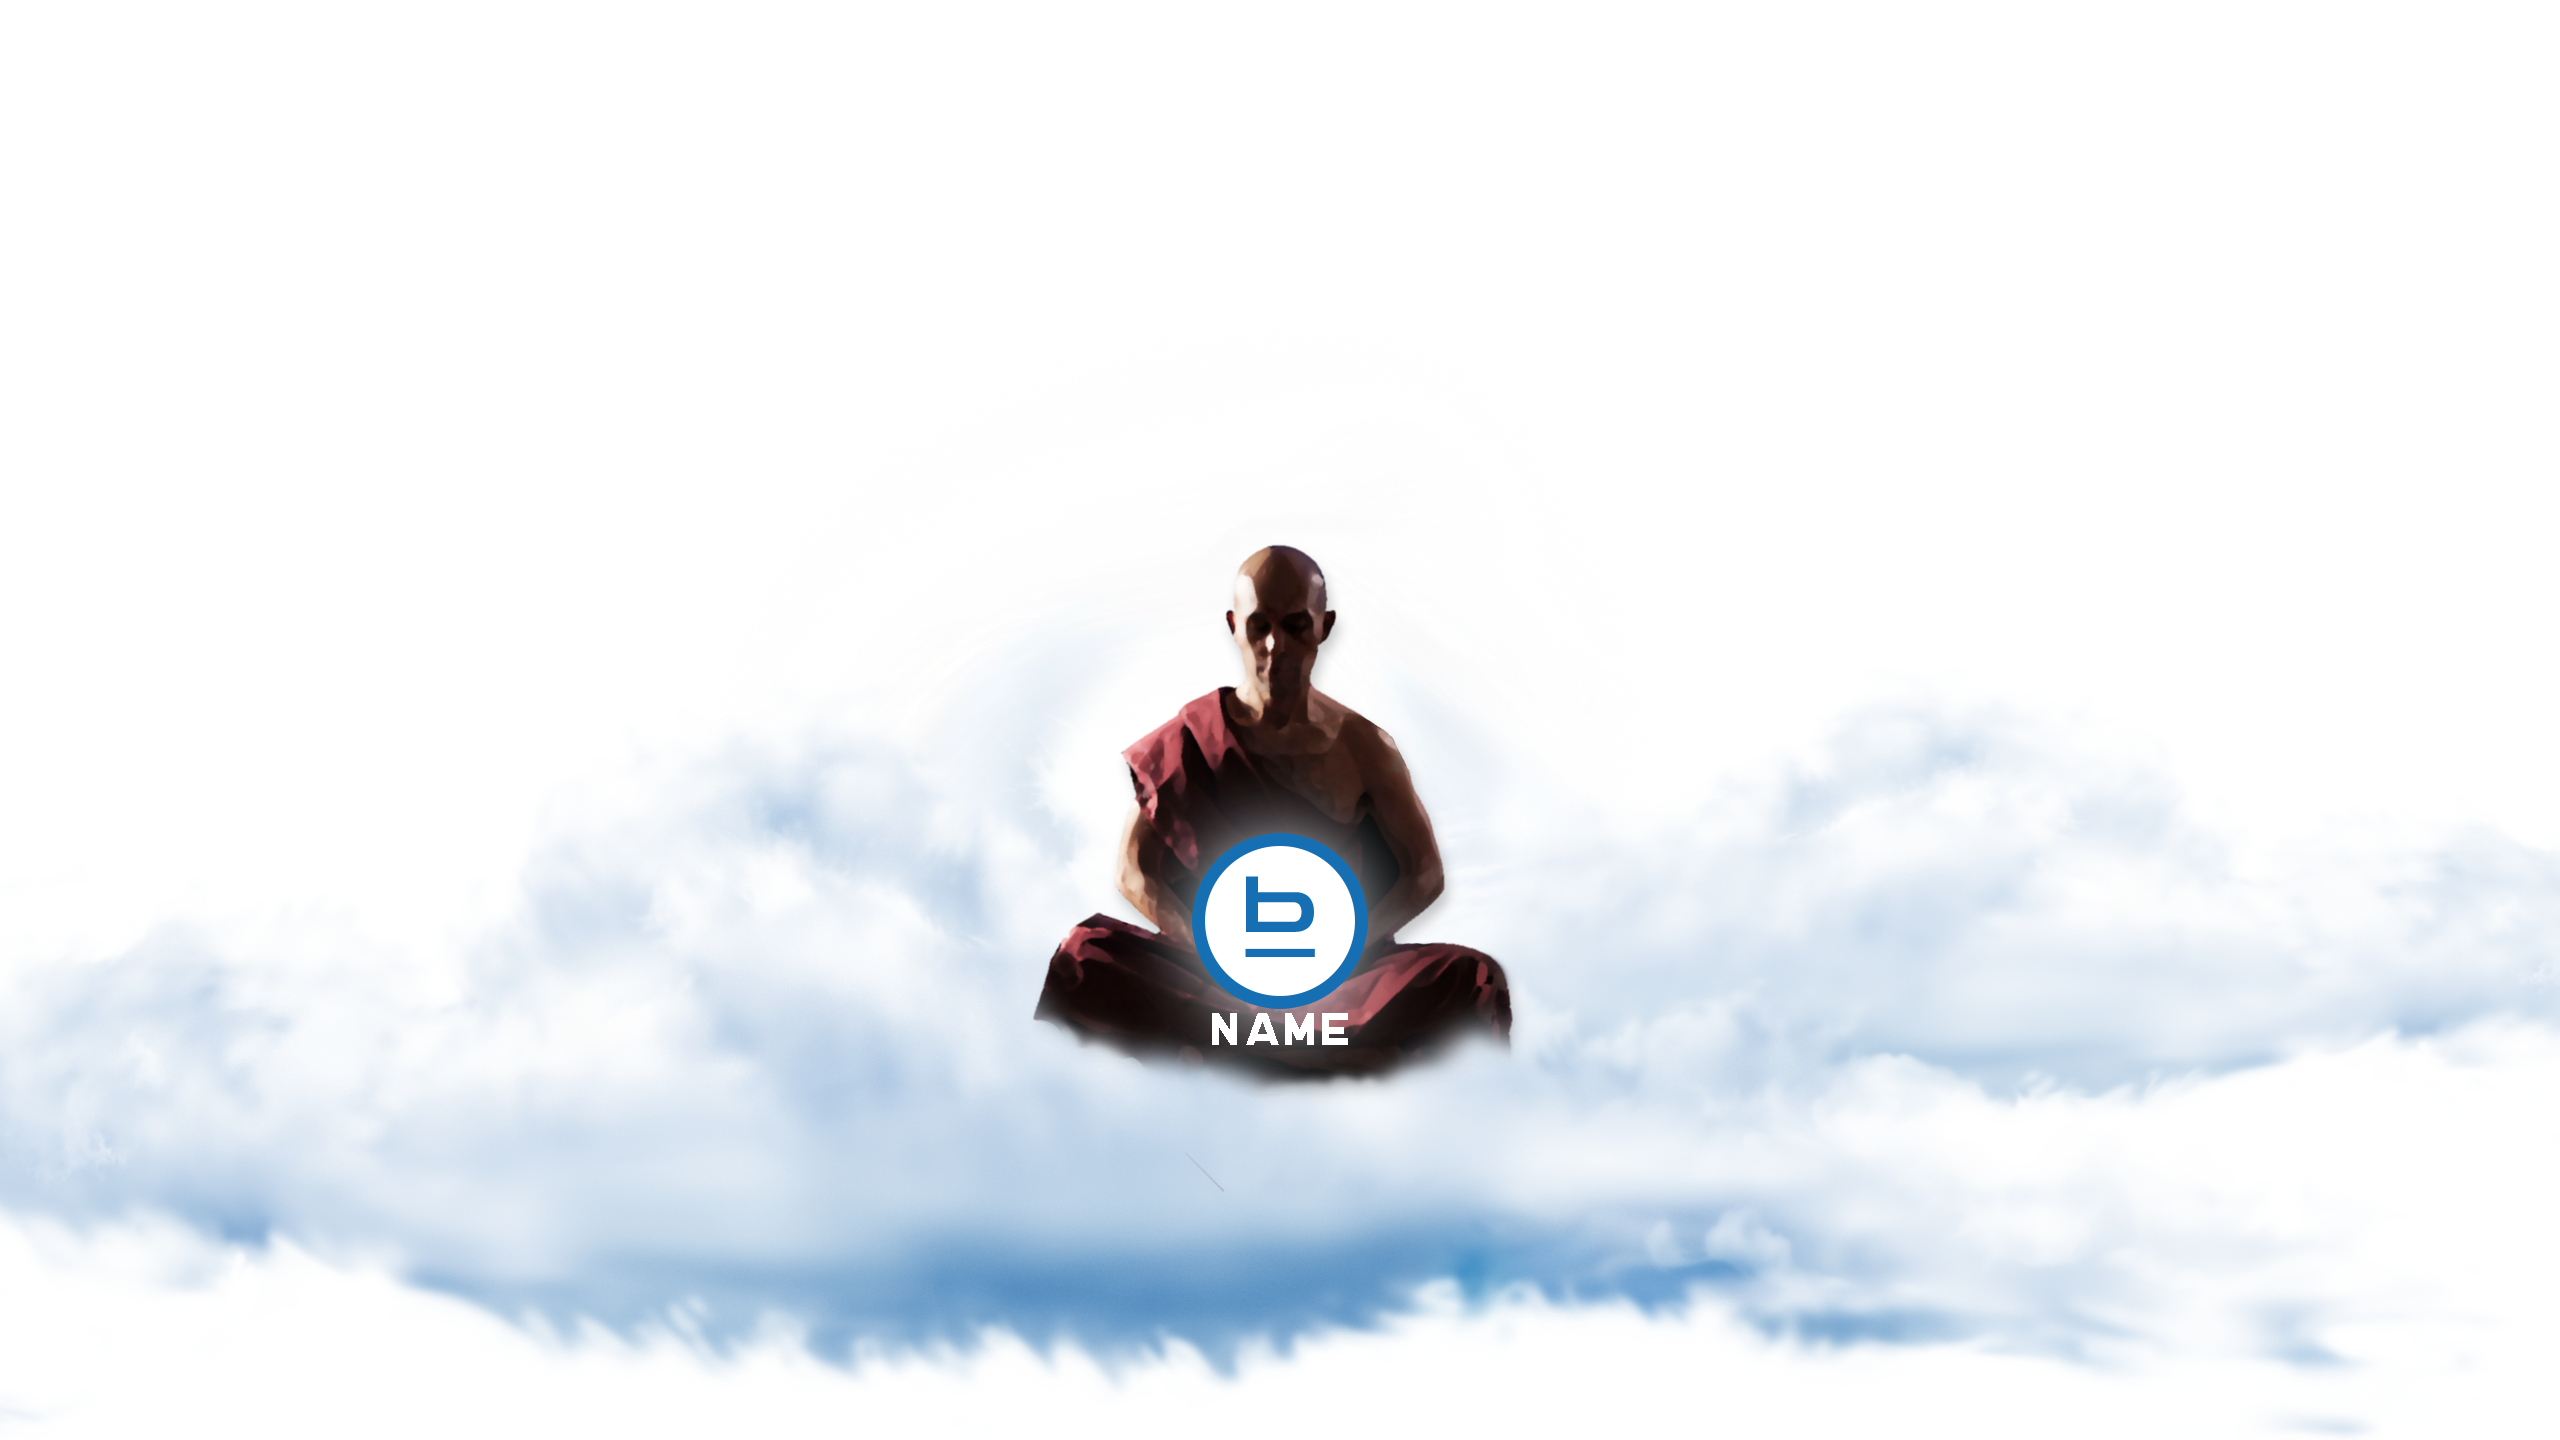
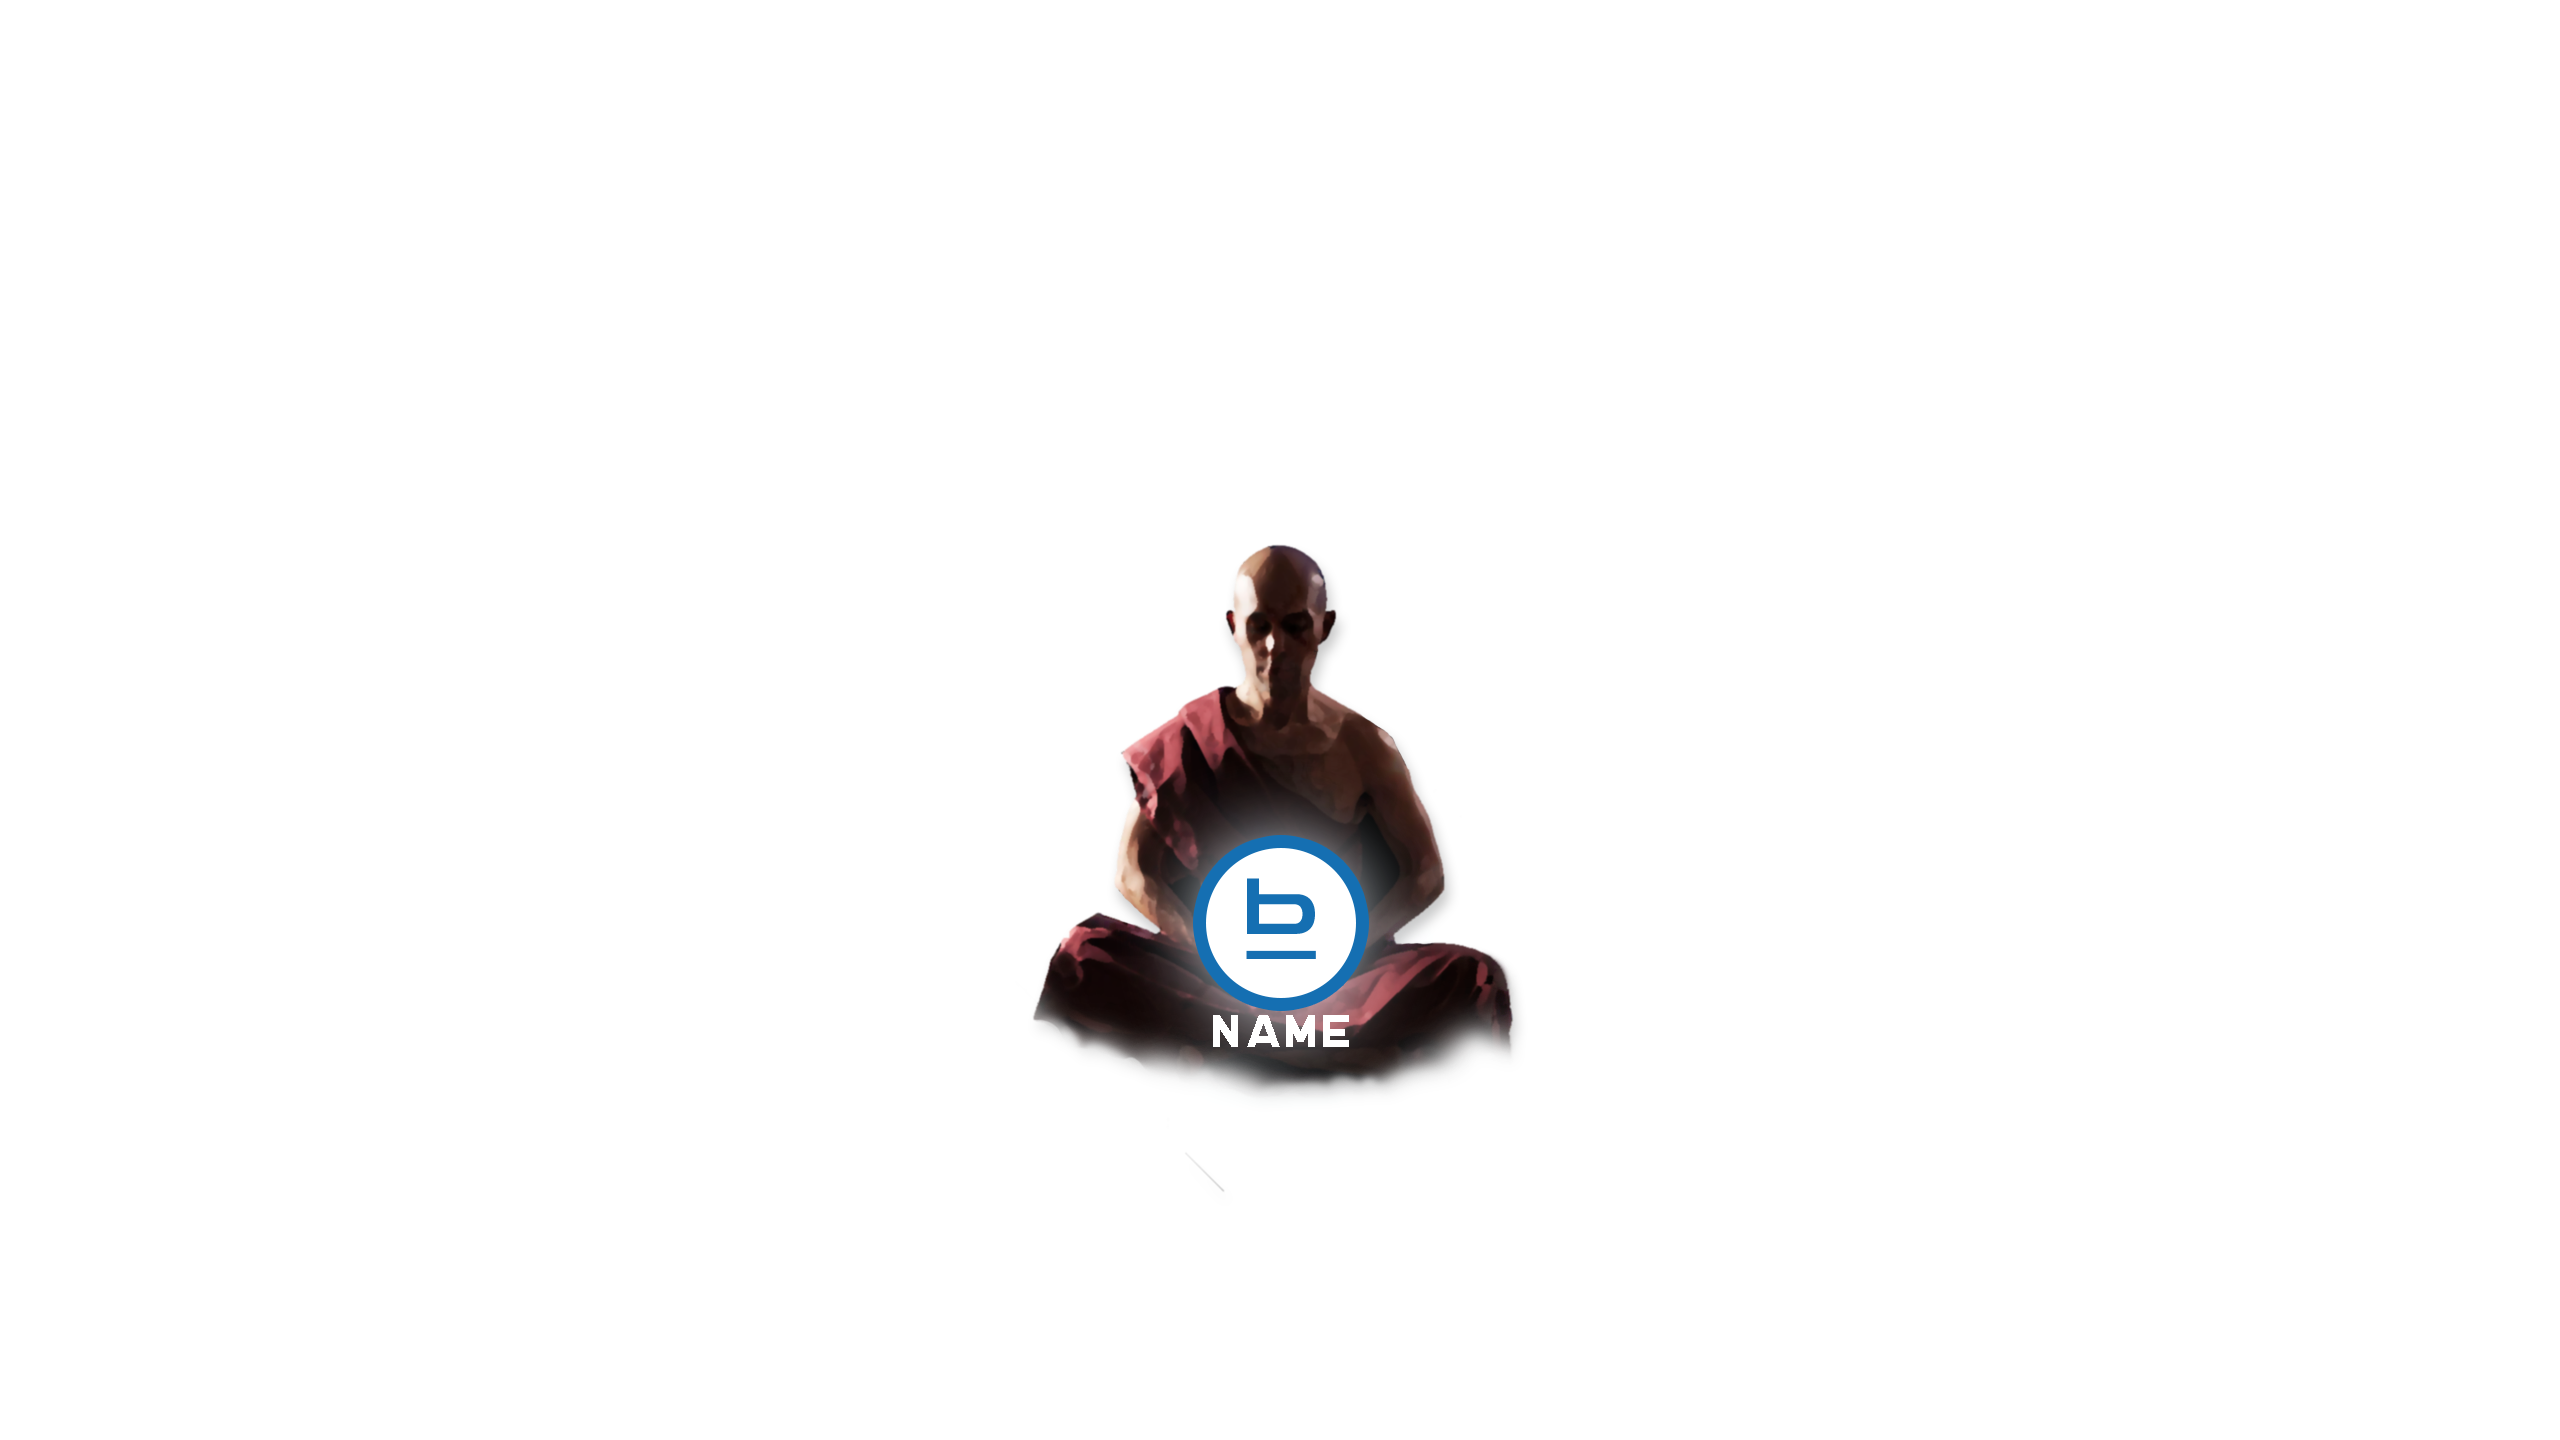
Добавила анимации

diff --git a/css/style.css b/css/style.css
@@ -29,7 +29,7 @@ body {
   /*background-size: 1280px auto;*/
 }
 
-div,
+/*div,
 article,
 ul,
 img {
@@ -43,7 +43,7 @@ p,
 a,
 li {
   outline: 1px dashed #888888;
-}
+}*/
 
 .main-container {
   position: relative;
@@ -51,8 +51,7 @@ li {
   flex-direction: column;
   /*justify-content: flex-end;*/
   align-items: center;
-  height: 720px; /* убрать потом */
-  overflow: hidden;
+  /*height: 720px;*/ /* убрать потом */
   background-image: url("../img/background.jpg");
   background-repeat: no-repeat;
   background-size: 100% auto;
@@ -76,13 +75,23 @@ li {
 
 .more-info-btn {
   position: absolute;
-  z-index: 3;
+  z-index: 999;
   right: 47px;
   top: 32px;
   display: block;
   width: 46px;
   height: 46px;
   background: url("../img/more-info-icon.png") no-repeat;
+}
+
+@keyframes clouds-top {
+  from {
+    transform: translateX(-36.38302915382792%);
+  }
+
+  to {
+    transform: translateX(60.67788575491823%);
+  }
 }
 
 .clouds-top {
@@ -95,7 +104,17 @@ li {
   animation-name: clouds-top;
   animation-duration: 180s;
   animation-fill-mode: both; /* почему-то все равно начинается с 0 */
-  transition-timing-function: linear;
+  animation-timing-function: linear;
+}
+
+@keyframes clouds-top-copy {
+  from {
+    transform: translateX(-100%);
+  }
+
+  to {
+    transform: translateX(60.67788575491823%);
+  }
 }
 
 .clouds-top-1 {
@@ -106,8 +125,104 @@ li {
   width: 164.8046875%;
   height: auto;
   animation-name: clouds-top-copy;
-  animation-duration: 180s;
-  animation-delay: 140s;
+  animation-duration: 212s;
+  animation-delay: 175s;
+  animation-iteration-count: infinite;
+  animation-fill-mode: both;
+  animation-timing-function: linear;
+}
+
+@keyframes clouds-middle {
+  from {
+    transform: translateX(-21.92962542565267%);
+  }
+
+  to {
+    transform: translateX(-100%);
+  }
+}
+
+.clouds-middle {
+  position: absolute;
+  top: 0;
+  left: 0;
+  z-index: 2;
+  width: 172.0703125%; /* 4405/2560*/
+  height: auto;
+  animation-name: clouds-middle;
+  animation-duration: 120s;
+  animation-fill-mode: both;
+  animation-timing-function: linear;
+}
+
+@keyframes clouds-middle-copy {
+  from {
+    transform: translateX(58.11577752553916%);
+  }
+
+  to {
+    transform: translateX(-100%);
+  }
+}
+
+.clouds-middle-1 {
+  position: absolute;
+  top: 0;
+  left: 0;
+  z-index: 2;
+  width: 172.0703125%; /* 4405/2560*/
+  height: auto;
+  animation-name: clouds-middle-copy;
+  animation-duration: 155s;
+  animation-delay: 115s;
+  animation-iteration-count: infinite;
+  animation-fill-mode: both;
+  animation-timing-function: linear;
+}
+
+@keyframes clouds-bottom {
+  from {
+    transform: translateX(-13.75448028673835%);
+  }
+
+  to {
+    transform: translateX(57.34767025089606%);
+  }
+}
+
+.clouds-bottom {
+  position: absolute;
+  top: 0;
+  left: 0;
+  z-index: 3;
+  width: 172.0703125%; /* 4405/2560*/
+  height: auto;
+  animation-name: clouds-bottom;
+  animation-duration: 60s;
+  animation-fill-mode: both;
+  animation-timing-function: linear;
+}
+
+@keyframes clouds-bottom-copy {
+  from {
+    transform: translateX(-100%);
+  }
+
+  to {
+    transform: translateX(57.34767025089606%);
+  }
+}
+
+.clouds-bottom-1 {
+  position: absolute;
+  top: 0;
+  left: 0;
+  z-index: 3;
+  width: 172.0703125%; /* 4405/2560*/
+  height: auto;
+  animation-name: clouds-bottom-copy;
+  animation-duration: 133s;
+  animation-delay: 55s;
   animation-iteration-count: infinite;
   animation-fill-mode: both;
   animation-timing-function: linear;
@@ -131,6 +246,7 @@ li {
   position: absolute;
   top: 0;
   left: 0;
+  z-index: 3;
   width: 100%;
   height: auto;
   /*height: 100%;*/
@@ -145,7 +261,7 @@ li {
 }
 
 .sakura-bottom {
-  position: fixed;
+  position: absolute;
   left: 0;
   top: 0;
   z-index: 4;
@@ -154,7 +270,8 @@ li {
 }
 
 .contacts {
-  position: relative;
+  position: absolute;
+  top: 100%;
   z-index: 6;
   /*width: 0,2609375%;*/ /* 668/2560 */
   /*margin-left: -13.046875%; */ /* 334/2560 */
@@ -212,33 +329,92 @@ li {
   background-size: contain;
 }
 
+.petals1 {
+  position: absolute;
+  left: 0;
+  top: 40%;
+  z-index: 99;
+  width: 31.25%; /*800/2560*/
+  height: auto;
+  animation-name: petals1-x, petals1-rotate;
+  animation-duration: 10s, 10s;
+  animation-fill-mode: both, both;
+  animation-timing-function: ease, /*cubic-bezier(0.86, 0, 0.07, 1)*/ease;
+}
 
-@keyframes clouds-top {
-  from: {
-    transform: translateX(-30%);
+@keyframes petals1-x {
+  0% {
+    left: -31.25%;
   }
 
-  to {
-    transform: translateX(-100%);
+  66% {
+    /*left: 40%;*/
+    top: 20%;
+  }
+
+  100% {
+    left: 100%; /* 2560/800 */
+    top: 40%;
   }
 }
 
-@keyframes clouds-top-copy {
-  from {
-    transform: translateX(61%);
+@keyframes petals1-rotate {
+/*  33% {
+    transform: rotate(-30deg);
   }
 
-  to {
-    transform: translateX(-100%);
+  55% {
+    transform: rotate(-180deg);
+  }*/
+
+  100% {
+    transform: rotate(-180deg);
   }
 }
 
+.petals2 {
+  position: absolute;
+  left: 0;
+  top: 30%;
+  z-index: 99;
+  width: 10.7421875%; /*275/2560*/
+  height: auto;
+  animation-name: petals2-x, petals2-rotate;
+  animation-duration: 10s, 10s;
+  animation-fill-mode: both, both;
+  animation-timing-function: ease, ease;
 
+}
 
+@keyframes petals2-x {
+  0% {
+    left: -10.7421875%;
+  }
 
+  66% {
+    /*left: 45%;*/
+    top: 25%;
+  }
 
+  100% {
+    left: 100%; /* 2560/800 */
+    top: 30%;
+  }
+}
 
+@keyframes petals2-rotate {
+/*  33% {
+    transform: rotate(-30deg);
+  }
 
+  55% {
+    transform: rotate(-180deg);
+  }*/
+
+  100% {
+    transform: rotate(-240deg);
+  }
+}
 
 
 

diff --git a/index.html b/index.html
@@ -45,13 +45,14 @@
       <a class="more-info-btn" href="#infoModal" data-toggle="modal"></a>
       <img src="img/clouds-top.png" alt="" class="clouds-top">
       <img src="img/clouds-top.png" alt="" class="clouds-top-1">
-      <!-- <div class="sakura"></div> -->
       <img src="img/sakura2.png" alt="" class="sakura">
-      <img src="" alt="" class="clouds-middle">
+      <img src="img/clouds-middle4.png" alt="" class="clouds-middle">
+      <img src="img/clouds-middle4.png" alt="" class="clouds-middle-1">
       <img src="img/monk.png" alt="" class="monk">
-      <!-- <img src="img/logo.png" alt="" class="logo"> -->
-      <img src="" alt="" class="clouds-bottom">
-      <img src="" alt="" class="petals">
+      <img src="img/clouds-bottom.png" alt="" class="clouds-bottom">
+      <img src="img/clouds-bottom.png" alt="" class="clouds-bottom-1">
+      <img src="img/petals1.png" alt="" class="petals1">
+      <img src="img/petals2.png" alt="" class="petals2">
       <img src="img/footer-background.png" alt="" class="sakura-bottom">
       <div class="contacts">
         <p class="phone">+7 (987) 454 84 10</p>
